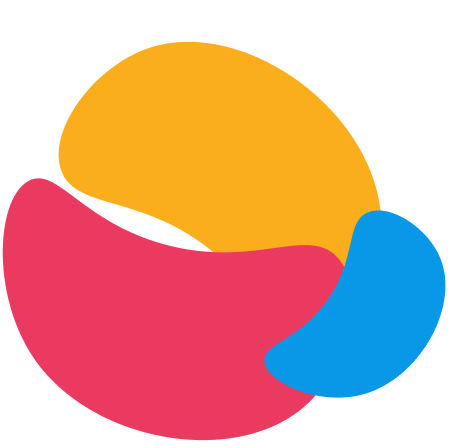
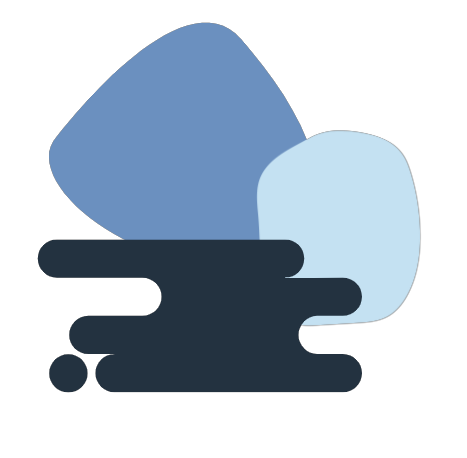
color scheme changes

diff --git a/src/theme/index.js b/src/theme/index.js
@@ -1,5 +1,5 @@
 export default {
-  // example colors with dark mode
+  // colors with dark mode
   colors: {
     text: '#343D48', // body color and primary color
     text_secondary: '#02073E', // secondary body color
@@ -9,7 +9,7 @@ export default {
     background_secondary: '#F9FBFD', // secondary background color
     border_color: '#E5ECF4', // border color
     yellow: '#FFA740', // border color
-    primary: '#EA3A60', // primary button and link color
+    primary: '#A65149', // primary button and link color
     secondary: '#2563FF', // secondary color - can be used for hover states
     muted: '#E4E4E4', // muted color
     accent: '#609', // a contrast color for emphasizing UI

diff --git a/src/sections/hero.js b/src/sections/hero.js
@@ -1,8 +1,8 @@
 /** @jsx jsx */
 import { jsx } from 'theme-ui';
 import { Container, Box, Heading, Text, Image, Button } from 'theme-ui';
-import ShapeLeft from 'assets/shape-left.png';
-import ShapeRight from 'assets/shape-right.png';
+import ShapeLeft from 'assets/shape-left.svg';
+import ShapeRight from 'assets/shape-right.svg';
 
 export default function Hero() {
   return (

diff --git a/src/sections/service-section.js b/src/sections/service-section.js
@@ -7,7 +7,7 @@ import ModalVideo from 'react-modal-video';
 import { IoIosPlay } from 'react-icons/io';
 
 import ServiceThumb from 'assets/service-thumb.png';
-import shapePattern from 'assets/shape-pattern1.png';
+import shapePattern from 'assets/shape-pattern1.svg';
 
 import Smart from 'assets/services/smart.svg';
 import Secure from 'assets/services/secure.svg';

diff --git a/src/sections/about-me.js b/src/sections/about-me.js
@@ -71,8 +71,8 @@ const styles = {
   },
   shapeBox: {
     position: 'absolute',
-    bottom: -65,
-    right: -165,
+    bottom: -150,
+    right: -200,
     zIndex: -1,
     display: ['none', 'inline-block', 'none', null, 'inline-block'],
   },
